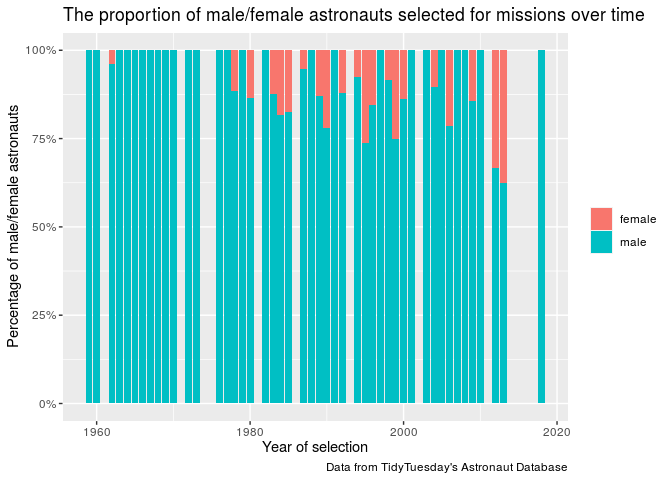
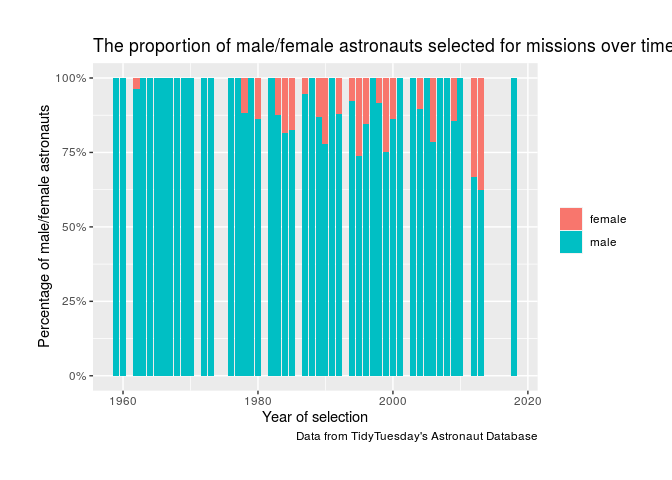
Size of plots changed, closes #2

diff --git a/proposal/proposal.md b/proposal/proposal.md
@@ -83,7 +83,8 @@ astronauts %>%
        x = "Year of selection",
        y = "Number of astronauts",
        caption = "Data from TidyTuesday's Astronaut Database")+
-  theme(legend.title = element_blank())
+  theme(legend.title = element_blank()) +
+   theme(plot.margin = unit(c(1, 1, 1, 1),"cm"))
 ```
 
 ![](proposal_files/figure-gfm/year_and_sex-1.png)<!-- -->
@@ -97,7 +98,8 @@ astronauts %>%
        y = "Percentage of male/female astronauts",
        caption = "Data from TidyTuesday's Astronaut Database")+
   theme(legend.title = element_blank())+
-  scale_y_continuous(labels = scales::percent)
+  scale_y_continuous(labels = scales::percent) +
+   theme(plot.margin = unit(c(1, 1, 1, 1),"cm"))
 ```
 
 ![](proposal_files/figure-gfm/year_and_sex-2.png)<!-- -->
